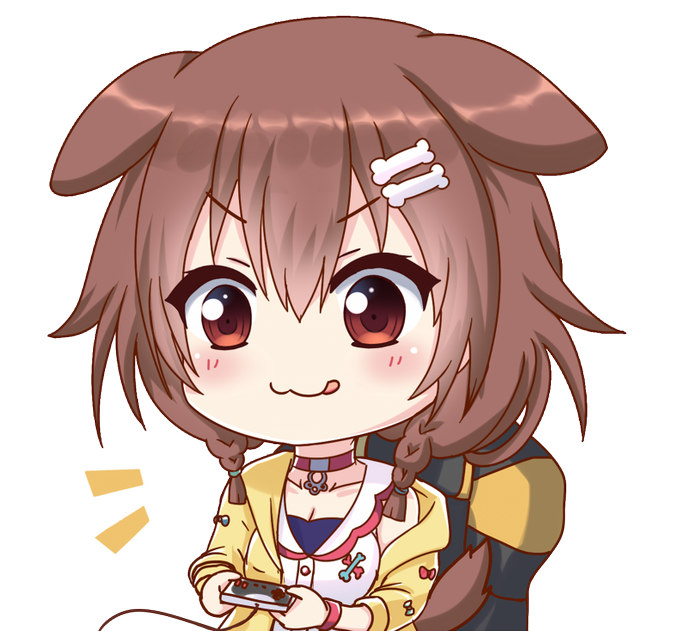
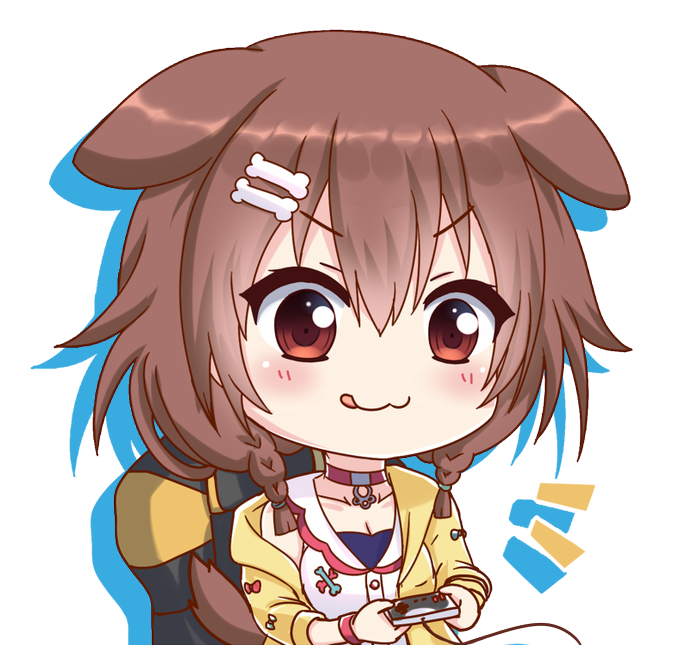
add korone speaking

diff --git a/pages/index.vue b/pages/index.vue
@@ -1,13 +1,18 @@
 <template>
     <div class="home">
         <Game />
-        <div class="korone-decor">
-            <img class="korone-decor-shadow"
-                 src="img/korone.png" 
-                 alt="">
+        <div class="korone-decor"
+             :class="[speaking ? 'speaking' : null]"
+             @click="speak">
             <img class="korone-decor-img" 
                  src="img/korone.png" 
                  alt="">
+            <img class="korone-decor-mouth" 
+                 src="img/korone-mouth.png" 
+                 alt="">
+            <div class="korone-decor-baloon">
+                {{ speakingText }}
+            </div>
         </div>
     </div>
 </template>
@@ -20,6 +25,29 @@
         components: {
             Game
         },
+        data() {
+            return {
+                speaking: false,
+                speakingText: '',
+                speakingPhrases: [
+                    'Lets go!~~',
+                    'Wow! Wow! Woow! WOOOOOW!',
+                    'Woof~ Wooof~',
+                    'Ganbatte!'
+                ]
+            };
+        },
+        methods: {
+            speak() {
+                if (!this.speaking) {
+                    this.speaking = true;
+                    this.speakingText = this.speakingPhrases[Math.floor(Math.random()*this.speakingPhrases.length)];
+                    setTimeout(() => {
+                        this.speaking = false;
+                    }, 1000);
+                }
+            }
+        }
     };
 </script>
 
@@ -44,22 +72,110 @@
             left: 0;
             width: 360px;
             z-index: 1;
+            cursor: pointer;
+
+            &.speaking {
+                animation: bounce .6s 1;
+                transform-origin: bottom center;
+                animation-timing-function: cubic-bezier(.28, .84, .42, 1);
+
+                .korone-decor-mouth {
+                    animation: speaking .6s 1 steps(5, start);
+                }
+
+                .korone-decor-baloon {
+                    opacity: 1;
+                    visibility: visible;
+                    transform: translateY(0);
+                }
+            }
 
             &-img {
                 width: 100%;
-                transform: scale(-1, 1);
-                filter: drop-shadow(12px 12px 0 #38abe0);
             }
 
-            &-shadow {
+            &-mouth {
                 position: absolute;
+                top: 58.3%;
+                left: 47.55%;
+                width: 53px;
+                z-index: 1;
+                opacity: 0;
+            }
+
+            &-baloon {
+                position: absolute;
+                display: flex;
+                justify-content: center;
+                align-items: center;
                 top: 0;
-                left: 0;
-                width: 100%;
-                transform: scale(-1, 1);
-                filter: drop-shadow(-12px -12px 0 white);
+                right: -100px;
+                width: 200px;
+                min-height: 80px;
+                padding: 20px;
+                background: white;
+                font-size: 16px;
+                line-height: 21px;
+                text-align: center;
+                border-radius: 20px;
+                box-shadow: 0 0 6px rgba(0, 0, 0, .12), 0 1px 6px rgba(0, 0, 0, .24);
+                opacity: 0;
+                visibility: hidden;
+                transform: translateY(20px);
+                transition: all .3s ease;
             }
         }
     }
 
+    @keyframes speaking {
+        0% {
+            opacity: 1;
+        }
+
+        20% {
+            opacity: 0;
+        }
+
+        40% {
+            opacity: 1;
+        }
+
+        60% {
+            opacity: 0;
+        }
+
+        80% {
+            opacity: 1;
+        }
+    }
+
+    @keyframes bounce {
+        0% {
+            transform: scale(1, 1) translateY(0);
+        }
+
+        10% {
+            transform: scale(1.1, .9) translateY(0);
+        }
+
+        30% {
+            transform: scale(.9, 1.1);
+        }
+
+        50% {
+            transform: scale(1.05, .95) translateY(0);
+        }
+
+        57% {
+            transform: scale(1, 1);
+        }
+
+        64% {
+            transform: scale(1, 1) translateY(0);
+        }
+
+        100% {
+            transform: scale(1, 1) translateY(0);
+        }
+    }
 </style>

diff --git a/components/Game.vue b/components/Game.vue
@@ -142,7 +142,7 @@
                 }
                 this.currentPath = [];
                 if (this.allSellsUsed(this.cells)) {
-                    console.log('victory!!');
+                    this.$emit('speak', this.speaking);
                     this.nextRound();
                 }
             },
@@ -160,6 +160,7 @@
                             this.cells[item.id].colorClass = '';
                         }
                     }
+
                     this.refreshing = false;
                 }, 200);
             },
